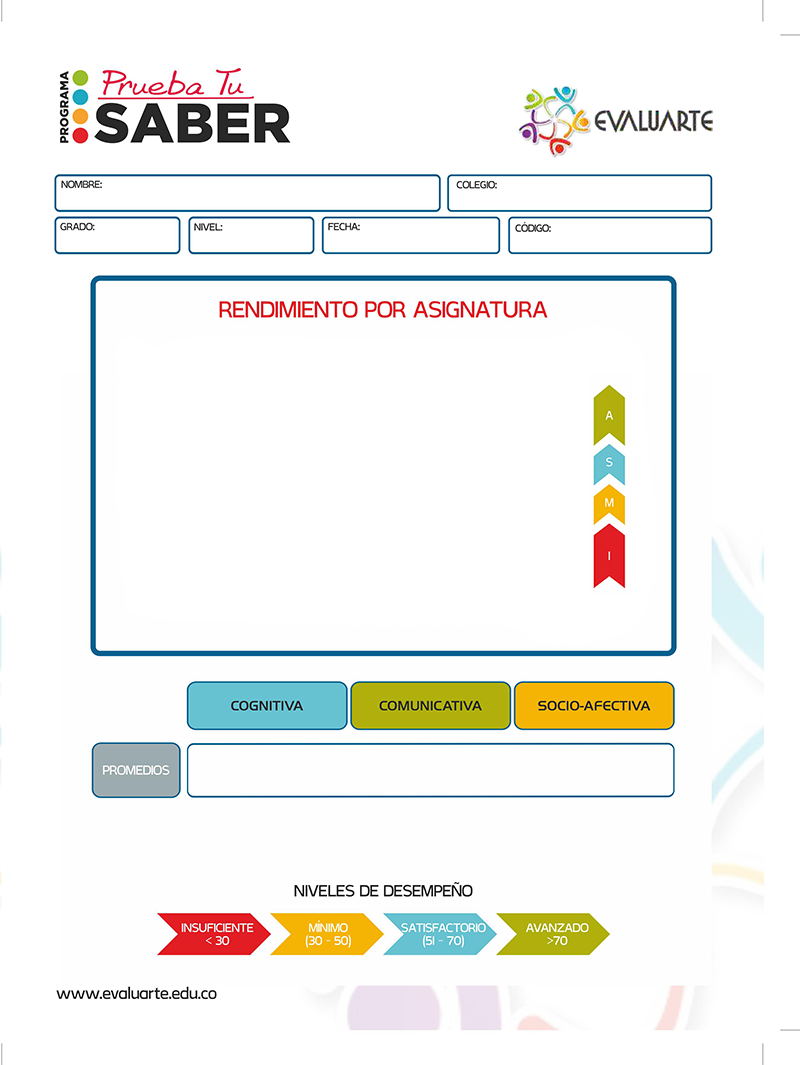
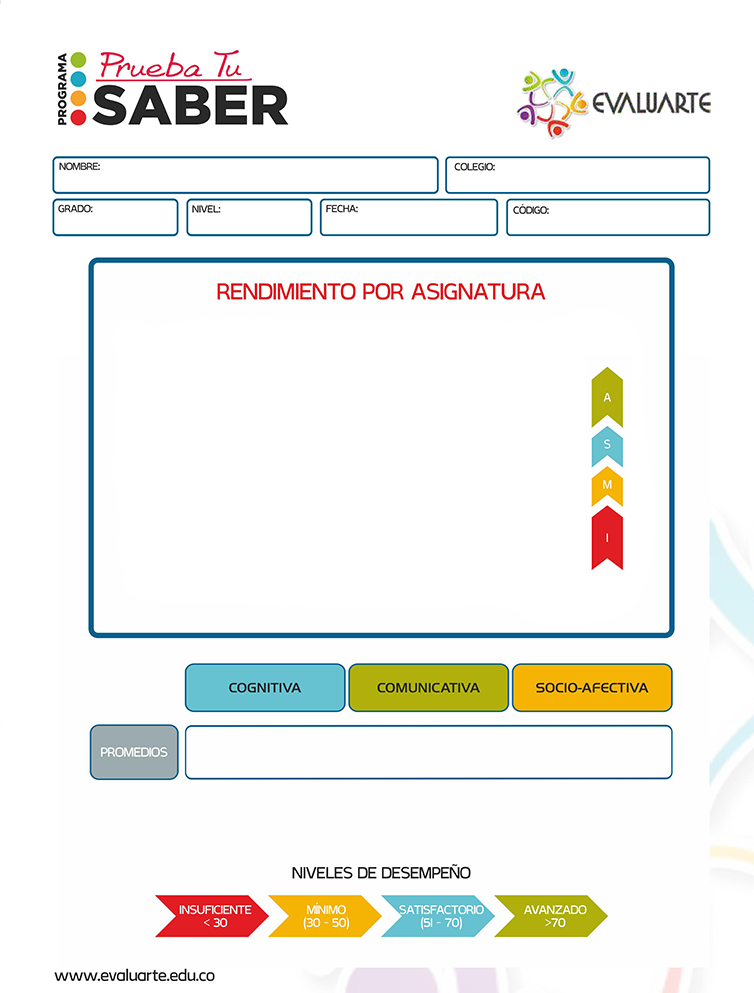
Realiza ajuste formato simulacros

diff --git a/resources/views/informes/generar-saber-superior.blade.php b/resources/views/informes/generar-saber-superior.blade.php
@@ -6,37 +6,33 @@
     </head>  
     <body>
         <div style="text-align: center; font: 70%; font-family: Geneva, Cambria, monospace, Arial, Helvetica, sans-serif">
-                <img class="custom_logo ie_png"  style="position: absolute;top: 0px;left: 0px;width: auto;" src="/imagenes/fondo-saber-superior.png">
+                <img class="custom_logo ie_png"  style="position: absolute;top: 0px;left: 0px;width: auto;" src="/imagenes/fondo-saber-superior.png">    
                 
-                <div style="position: absolute;top: 318px;left: 130px;width: 400px;"  id="perf_div">
+                <div style="position: absolute;top: 283px;left: 95px;width: 400px;"  id="perf_div">
                     <?= $lava->render('ColumnChart', 'Simulacros', 'perf_div') ?>
                 </div>
 
-                <div style="position: absolute;top: 761px;left: 225px;width: 50px;">
+                <div style="position: absolute;top: 731px;left: 185px;width: 50px;">
                     <span>{{ $informar->proMat1 }}<span>&nbsp;</span>
                 </div>
-
-                <div style="position: absolute;top: 761px;left: 310px;width: 86px;">
+                <div style="position: absolute;top: 731px;left: 270px;width: 86px;">
                     <span>{{ $informar->proMat2}}<span>&nbsp;</span>
                 </div>
-
-                <div style="position: absolute;top: 761px;left: 410px;width: 86px;">
+                <div style="position: absolute;top: 731px;left: 370px;width: 86px;">
                     <span>{{ $informar->proMat3}}<span>&nbsp;</span>
                 </div>
-
-                <div style="position: absolute;top: 761px;left: 512px;width: 86px;">
+                <div style="position: absolute;top: 731px;left: 472px;width: 86px;">
                     <span>{{ $informar->proMat4}}<span>&nbsp;</span>
                 </div>
-
-                <div style="position: absolute;top: 761px;left: 613px;width: 86px;">
+                <div style="position: absolute;top: 731px;left: 573px;width: 86px;">
                     <span>{{ $informar->proMat5}}<span>&nbsp;</span>
                 </div>
-
-                <div style="position: absolute;top: 830px;left: 340px;width: 86px;">
+                
+                <div style="position: absolute;top: 790px;left: 300px;width: 86px;">
                     <span>{{ round(($informar->proMat1 + $informar->proMat2 + $informar->proMat3 + $informar->proMat4 + $informar->proMat5)/ 5)}}<span>&nbsp;</span>
                 </div>
-
-                <div style="position: absolute;top: 830px;left: 600px;width: 86px;">
+                
+                <div style="position: absolute;top: 790px;left: 560px;width: 86px;">
                     <span>
                         <?php 
                             $media = round(($informar->proMat1 + $informar->proMat2 + $informar->proMat3 + $informar->proMat4 + $informar->proMat5)/ 5);
@@ -54,33 +50,30 @@
                     <span>&nbsp;</span>
                 </div>
            <!-- Datos del personales del estudiante -->
-            <div style="position: absolute;top: 188px;left: 126px;width: 350px;">
+            <div style="position: absolute;top: 157px;left: 86px;width: 350px;">
                 <span>{{ $informar->NombreEstudiante }}<span>&nbsp;</span>
             </div>
-
-            <div style="position: absolute;top: 188px;left: 486px;width: 250px;">
+            <div style="position: absolute;top: 157px;left: 446px;width: 250px;">
                 <span>{{ $informar->colegio }}<span>&nbsp;</span>
             </div>
-
-            <div style="position: absolute;top: 225px;left: 586px;width:116px;">
+            <div style="position: absolute;top: 198px;left: 556px;width:116px;">
                 <span>{{ $informar->codigo }}<span>&nbsp;</span>
             </div>
-
-            <div style="position: absolute;top: 225px;left: 387px;width:116px;">
+            <div style="position: absolute;top: 198px;left: 357px;width:116px;">
                 <span>{{ $informar->FechaAplico }}<span>&nbsp;</span>
             </div>
 
-            <div style="position: absolute;top: 225px;left: 218px;width:116px;">
+            <div style="position: absolute;top: 198px;left: 190px;width:116px;">
                 <span>{{ $informar->puesto }}<span>&nbsp;</span>
             </div>
-
-            <div style="position: absolute;top: 225px;left: 84px;width: 116px;">
+            <div style="position: absolute;top: 198px;left: 60px;width: 116px;">
                 <span>{{ $informar->grado }}<span>&nbsp;</span>
             </div>
-            <!-- Datos PUNTAJE materias  -->
-        <div style="position: absolute;left: 0px;width: 0px;">
-             <button  type="button" class="btn btn-default" onClick="window.print()">Imprimir</button>
-        </div>
+            <div style="position: absolute;left: 0px;width: 0px;">                             
+                <a  onClick="window.print();return false" href="#"> 
+                    <img width="auto" height="45px" src="/imagenes/impresora.png">  
+                </a>
+            </div>
         </div>
     </body>
 </html>

diff --git a/resources/views/informes/generar-saber-basica.blade.php b/resources/views/informes/generar-saber-basica.blade.php
@@ -5,54 +5,56 @@
         <script src="//code.jquery.com/jquery-2.1.3.min.js"></script>
     </head>  
     <body>
-        <div style="text-align: center; font: 80%; font-family: Geneva, Cambria, monospace, Arial, Helvetica, sans-serif">
+        <div style="text-align: center; font: 70%; font-family: Geneva, Cambria, monospace, Arial, Helvetica, sans-serif">
                 <img class="custom_logo ie_png"  style="position: absolute;top: 0px;left: 0px;width: auto;" src="/imagenes/fondo-saber-basica.png">
                 
-                <div style="position: absolute;top: 320px;left: 105px;width: 400px;"  id="perf_div">
+                <div style="position: absolute;top: 302px;left: 102px;width: 400px;"  id="perf_div">
                     <?= $lava->render('ColumnChart', 'Simulacros', 'perf_div') ?>
                 </div>
 
-                <div style="position: absolute;top: 760px;left: 245px;width: 50px;">
+                <div style="position: absolute;top: 745px;left: 235px;width: 50px;">
                     <span>{{ $informar->proMat1 }}<span>&nbsp;</span>
                 </div>
 
-                <div style="position: absolute;top: 760px;left: 390px;width: 86px;">
+                <div style="position: absolute;top: 745px;left: 380px;width: 86px;">
                     <span>{{ $informar->proMat2}}<span>&nbsp;</span>
                 </div>
 
-                <div style="position: absolute;top: 760px;left: 540px;width: 86px;">
+                <div style="position: absolute;top: 745px;left: 540px;width: 86px;">
                     <span>{{ $informar->proMat3}}<span>&nbsp;</span>
                 </div>
 
             <!-- Datos del personales del estudiante -->
-            <div style="position: absolute;top: 188px;left: 96px;width: 350px;">
+            <div style="position: absolute;top: 170px;left: 66px;width: 350px;">
                 <span>{{ $informar->NombreEstudiante }}<span>&nbsp;</span>
             </div>
 
-            <div style="position: absolute;top: 188px;left: 486px;width: 250px;">
+            <div style="position: absolute;top: 170px;left: 456px;width: 250px;">
                 <span>{{ $informar->colegio }}<span>&nbsp;</span>
             </div>
 
-            <div style="position: absolute;top: 225px;left: 546px;width:116px;">
+            <div style="position: absolute;top: 216px;left: 556px;width:116px;">
                 <span>{{ $informar->codigo }}<span>&nbsp;</span>
             </div>
 
-            <div style="position: absolute;top: 225px;left: 347px;width:116px;">
+            <div style="position: absolute;top: 216px;left: 357px;width:116px;">
                 <span>{{ $informar->FechaAplico }}<span>&nbsp;</span>
             </div>
 
-            <div style="position: absolute;top: 225px;left: 200px;width:116px;">
+            <div style="position: absolute;top: 216px;left: 200px;width:116px;">
                 <span>{{ $informar->puesto }}<span>&nbsp;</span>
             </div>
 
-            <div style="position: absolute;top: 225px;left: 66px;width: 116px;">
+            <div style="position: absolute;top: 216px;left: 60px;width: 116px;">
                 <span>{{ $informar->grado }}<span>&nbsp;</span>
             </div>
 
-            <!-- Datos PUNTAJE materias  -->
-        <div style="position: absolute;left: 0px;width: 0px;">
-             <button  type="button" class="btn btn-default" onClick="window.print()">Imprimir</button>
-        </div>
+            <div style="position: absolute;left: 0px;width: 0px;">                             
+                <a  onClick="window.print();return false" href="#"> 
+                    <img width="auto" height="45px" src="/imagenes/impresora.png">  
+                </a>
+            </div>
+
         </div>
     </body>
 </html>

diff --git a/resources/views/informes/consultar-simulacro.blade.php b/resources/views/informes/consultar-simulacro.blade.php
@@ -38,10 +38,9 @@
 			<div class="col-sm-6 col-md-4">
 				<div class="thumbnail">
 					<div class="caption">	
-
 					    <H3>Simulacro {{ $index+1 }}</H3>
  						@if($informe->simulacro == 'Tu saber')					
- 						<p><strong>Fecha Aplico:</strong> {{ $informe->FechaAplico }}</p>
+ 						<p><strong>Fecha Aplicación:</strong> {{ $informe->FechaAplico }}</p>
 	 						@if($informe->grado == 'JARDÍN' || $informe->grado == 'PREJARDÍN' || $informe->grado == 'TRANSICIÓN')
 	 							<p><strong>Total:</strong> {{ ($informe->proMat1 + $informe->proMat2 + $informe->proMat3) / 3}}</p>
 								<p><a href="/validado/informes/generar-saber-basica/{{$informe->id}}" target="_blank" class="btn btn-primary" role="button">Ver Simulacro</a></p>					
@@ -54,7 +53,7 @@
 							@endif
 						@elseif($informe->simulacro == 'saber 10 y 11 4 Preguntas Abiertas' || $informe->simulacro == 'saber 4,6,7 y 8' || $informe->simulacro == 'saber 3_Nuevo' || $informe->simulacro == 'saber 5_Nuevo')					 
 						<p><strong>Total:</strong> {{ $informe->proTotal }}</p>
-						<p><strong>Fecha Aplico:</strong> {{ $informe->FechaAplico }}</p>
+						<p><strong>Fecha Aplicación:</strong> {{ $informe->FechaAplico }}</p>
 							@if($informe->grado == '10°' || $informe->grado == '11°')
 								<p><a href="/validado/informes/generar-media-vocacional/{{$informe->codigo}}/{{$informe->codigo_simulacro}}" target="_blank" class="btn btn-primary" role="button">Ver Simulacro</a></p>					
 							@elseif($informe->grado == '3°' || $informe->grado == '4°')						    
